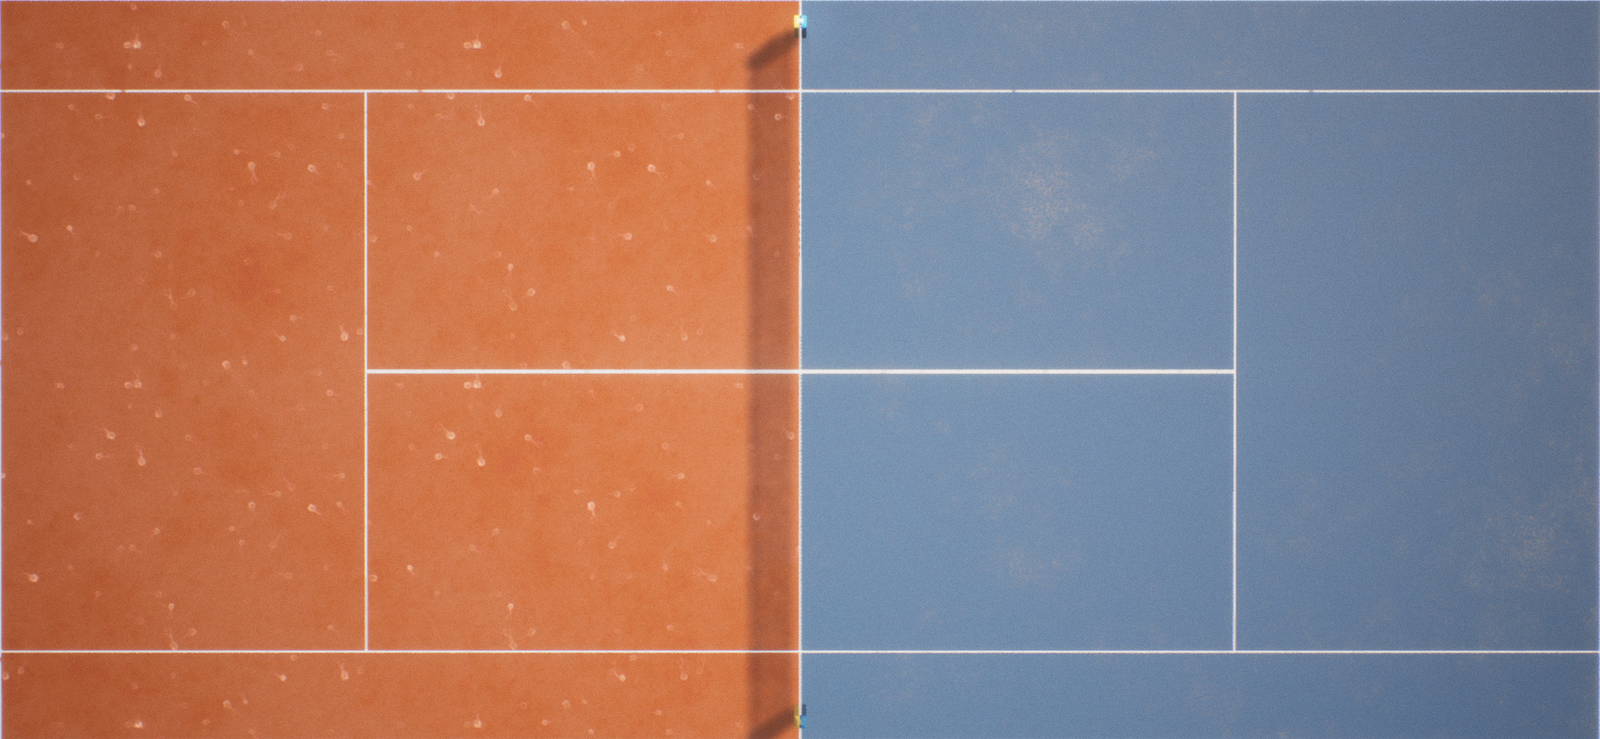
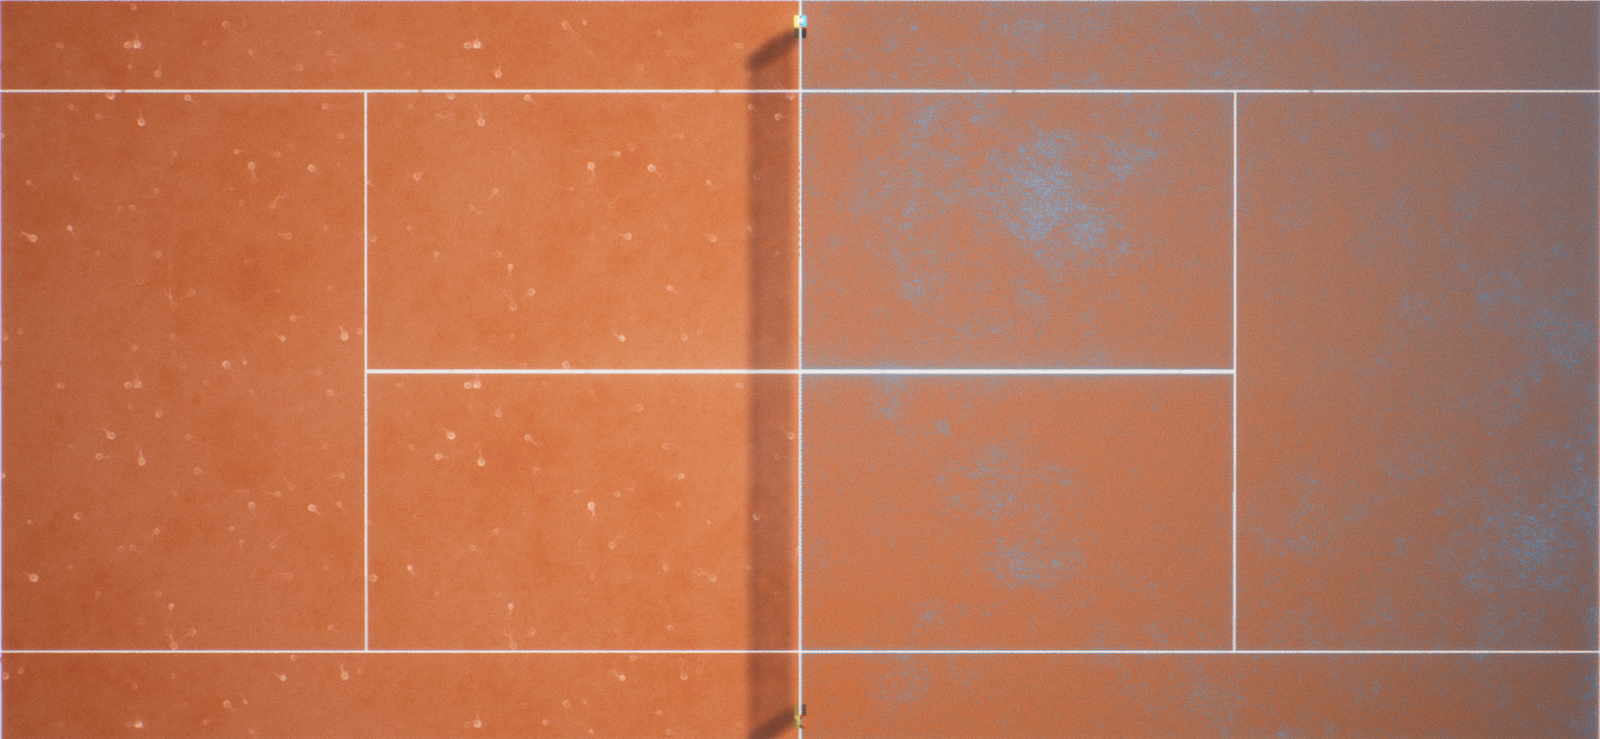
staging: cache-bust XML/mesh/ONNX asset fetches (Pages serves 10min cache)

diff --git a/index.html b/index.html
@@ -1,6 +1,6 @@
 <!doctype html><html><head><meta charset="UTF-8"><meta name="viewport" content="width=device-width,initial-scale=1"><meta name="description" content="The official Unitree H2 model with 29 actuators, driven by the actual zero-step untrained policy in real MuJoCo WebAssembly."><title>LATENT Tennis - Real MuJoCo</title><style>
 :root{color-scheme:dark;--lime:#c7ff2f;--line:#ffffff24;--panel:#07101bd9}*{box-sizing:border-box}html,body,#app{margin:0;width:100%;height:100%;overflow:hidden;background:#03070c;font-family:Inter,system-ui,sans-serif;color:#f4f7fb}canvas{display:block}.top{position:fixed;z-index:3;top:0;left:0;right:0;padding:20px 28px;display:flex;justify-content:space-between;pointer-events:none;background:linear-gradient(#03070ce6,transparent)}.brand{font-weight:900;letter-spacing:.18em;font-size:12px}.brand b{color:var(--lime)}.badge{border:1px solid #c7ff2f55;background:#07101bd9;border-radius:99px;padding:8px 12px;font-size:10px;letter-spacing:.12em;color:var(--lime)}.hud{position:fixed;z-index:3;top:78px;left:26px;display:grid;gap:8px;pointer-events:none}.row{background:var(--panel);border:1px solid var(--line);border-radius:12px;padding:10px 13px;min-width:260px;display:flex;justify-content:space-between;font-size:11px;backdrop-filter:blur(12px)}.row span{color:#8f9bad}.copy{position:fixed;z-index:3;left:28px;bottom:26px;max-width:600px;pointer-events:none}.copy .copytoggle{pointer-events:auto;margin-top:10px;border:1px solid var(--line);background:#07101bdd;color:#fff;padding:7px 12px;border-radius:999px;font:bold 9px system-ui;letter-spacing:.1em;cursor:pointer;text-transform:uppercase}.copy .copytag{display:none;font-weight:900;letter-spacing:-.02em;font-size:15px;pointer-events:auto;cursor:pointer}.copy.min{max-width:none}.copy.min h1,.copy.min p{display:none}.copy.min .copytag{display:inline-block}.copy.min .copytag:hover{color:var(--lime)}.copy h1{font-size:clamp(32px,4.5vw,58px);line-height:.88;letter-spacing:-.065em;margin:0 0 14px}.copy p{margin:0;color:#b8c1ce;line-height:1.45;font-size:13px;max-width:650px}.controls{position:fixed;z-index:4;right:25px;bottom:25px;display:flex;gap:8px}.controls button,.controls a{border:1px solid var(--line);background:#07101bdd;color:white;padding:10px 14px;border-radius:999px;text-decoration:none;text-transform:uppercase;font:bold 10px system-ui;letter-spacing:.1em;cursor:pointer}.controls button:hover,.controls a:hover{border-color:var(--lime);color:var(--lime)}.loading{position:fixed;inset:0;z-index:10;background:#03070c;display:grid;place-items:center;text-align:center}.loading b{display:block;color:var(--lime);letter-spacing:.14em;margin-bottom:10px}.loading small{color:#8090a0}.loadbar{width:min(72vw,420px);height:7px;margin:18px auto 0;background:#15202b;border-radius:99px;overflow:hidden}.loadbar i{display:block;width:2%;height:100%;background:var(--lime);border-radius:inherit;transition:width .18s ease}.error{color:#ff8d8d;max-width:600px;padding:30px}.truth{position:fixed;z-index:4;right:24px;top:75px;width:290px;background:#07101be8;border:1px solid var(--line);border-radius:14px;padding:14px;font-size:11px;line-height:1.5;color:#aeb8c6}.truth b{color:white}.truth i{color:var(--lime);font-style:normal}.copy .roadmap{margin-top:10px;font-size:11px;color:#8f9bad}.copy .roadmap b{color:var(--lime);letter-spacing:.08em}@media(max-width:700px){.truth{display:none}.hud{left:14px;top:67px}.row{min-width:215px}.row:nth-child(n+3){display:none}.copy{left:15px;bottom:82px;right:15px}.copy h1{font-size:46px}.copy p{font-size:11px}.controls{left:14px;right:auto;bottom:24px}.top{padding:17px 15px}.badge{font-size:9px}}
 </style>  <script src="./assets/ort/ort.wasm.min.js"></script>
-  <script type="module" crossorigin src="./assets/index-H2-modelgeom.js?v=h2untr1"></script>
+  <script type="module" crossorigin src="./assets/index-H2-modelgeom.js?v=h2untr2"></script>
 
 </head><body><div id="app"></div><div class="top"><div class="brand"><b>LATENT</b> / MUJOCO</div><div class="badge" id="badge">BOOTING REAL SIM</div></div><div class="hud"><div class="row"><span>PHYSICS</span><strong id="physics">MuJoCo WASM loading</strong></div><div class="row"><span>MODEL</span><strong id="model">Official H2 MJCF · 29 actuators</strong></div><div class="row"><span>GEOMETRY</span><strong id="geo">Loading official H2 meshes</strong></div><div class="row"><span>CONTROL</span><strong>UNTRAINED · 0 STEPS</strong></div></div><div class="truth"><b>What is real?</b><br><i>Real:</i> official MuJoCo engine stepped live at 500Hz, official Unitree H2 MJCF with its 29 position actuators, and a feed ball flying real aerodynamics - gravity plus drag and Magnus lift from the training environment's model. Bounce, net, racket and robot collisions are MuJoCo contacts. The racket is a real 320g rigid body welded to the right wrist - it moves with the policy and genuinely knocks balls it touches (rigid-face contact; string network pending calibration).<br><br><i>Honest limits:</i> the robot is driven at 50Hz by the actual untrained policy - a zero-step random init fed zero observations (browser smoke schema). It has no balance skill: it wobbles, falls, and restarts. That collapse is day zero, not a bug. Ball spin is held constant over flight (no decay yet). The racket face is a rigid disc, not the training stringbed - no spin-producing string physics is claimed yet.</div><div class="copy" id="copy"><span class="copytag" id="copytag">REAL MODEL. REAL PHYSICS.</span><h1>REAL MODEL.<br>REAL PHYSICS.</h1><p>Unitree's official H2 model is compiled live in Google's MuJoCo WebAssembly engine and driven by the actual training policy - today a zero-step random initialization with no balance skill. It wobbles, falls, and gets up for another episode while the machine fires real-spin balls at it. Every collapse is exactly where training starts. Drag to orbit.</p><p class="roadmap"><b>ATH - Association of Tennis Humanoids</b><br>Building toward physics-first humanoid tennis: pro footwork, spin-aware ball flight, drills, serves, and match play.</p><button class="copytoggle" id="copytoggle">Hide text</button></div><div class="controls"><button id="pause">Pause</button><button id="reset">Reset</button><a href="https://github.com/unitreerobotics/unitree_ros" target="_blank">Source</a></div><div class="loading" id="loading"><div><b>COMPILING UNITREE H2</b><small id="loadmsg">Starting optimized mobile loader…</small><div class="loadbar" role="progressbar" aria-label="Loading simulation"><i id="loadbarfill"></i></div></div></div><script>(function(){var c=document.getElementById("copy"),t=document.getElementById("copytoggle"),g=document.getElementById("copytag");function set(m){c.classList.toggle("min",m);t.textContent=m?"About":"Hide text"}t.addEventListener("click",function(){set(!c.classList.contains("min"))});g.addEventListener("click",function(){set(false)});if(window.matchMedia&&window.matchMedia("(max-width:700px)").matches)set(true)})();</script></body></html>

diff --git a/index-dev.html b/index-dev.html
@@ -1,6 +1,6 @@
 <!doctype html><html><head><meta charset="UTF-8"><meta name="viewport" content="width=device-width,initial-scale=1"><meta name="description" content="The official Unitree H2 model with 29 actuators, driven by the actual zero-step untrained policy in real MuJoCo WebAssembly."><title>LATENT Tennis - Real MuJoCo</title><style>
 :root{color-scheme:dark;--lime:#c7ff2f;--line:#ffffff24;--panel:#07101bd9}*{box-sizing:border-box}html,body,#app{margin:0;width:100%;height:100%;overflow:hidden;background:#03070c;font-family:Inter,system-ui,sans-serif;color:#f4f7fb}canvas{display:block}.top{position:fixed;z-index:3;top:0;left:0;right:0;padding:20px 28px;display:flex;justify-content:space-between;pointer-events:none;background:linear-gradient(#03070ce6,transparent)}.brand{font-weight:900;letter-spacing:.18em;font-size:12px}.brand b{color:var(--lime)}.badge{border:1px solid #c7ff2f55;background:#07101bd9;border-radius:99px;padding:8px 12px;font-size:10px;letter-spacing:.12em;color:var(--lime)}.hud{position:fixed;z-index:3;top:78px;left:26px;display:grid;gap:8px;pointer-events:none}.row{background:var(--panel);border:1px solid var(--line);border-radius:12px;padding:10px 13px;min-width:260px;display:flex;justify-content:space-between;font-size:11px;backdrop-filter:blur(12px)}.row span{color:#8f9bad}.copy{position:fixed;z-index:3;left:28px;bottom:26px;max-width:600px;pointer-events:none}.copy .copytoggle{pointer-events:auto;margin-top:10px;border:1px solid var(--line);background:#07101bdd;color:#fff;padding:7px 12px;border-radius:999px;font:bold 9px system-ui;letter-spacing:.1em;cursor:pointer;text-transform:uppercase}.copy .copytag{display:none;font-weight:900;letter-spacing:-.02em;font-size:15px;pointer-events:auto;cursor:pointer}.copy.min{max-width:none}.copy.min h1,.copy.min p{display:none}.copy.min .copytag{display:inline-block}.copy.min .copytag:hover{color:var(--lime)}.copy h1{font-size:clamp(32px,4.5vw,58px);line-height:.88;letter-spacing:-.065em;margin:0 0 14px}.copy p{margin:0;color:#b8c1ce;line-height:1.45;font-size:13px;max-width:650px}.controls{position:fixed;z-index:4;right:25px;bottom:25px;display:flex;gap:8px}.controls button,.controls a{border:1px solid var(--line);background:#07101bdd;color:white;padding:10px 14px;border-radius:999px;text-decoration:none;text-transform:uppercase;font:bold 10px system-ui;letter-spacing:.1em;cursor:pointer}.controls button:hover,.controls a:hover{border-color:var(--lime);color:var(--lime)}.loading{position:fixed;inset:0;z-index:10;background:#03070c;display:grid;place-items:center;text-align:center}.loading b{display:block;color:var(--lime);letter-spacing:.14em;margin-bottom:10px}.loading small{color:#8090a0}.loadbar{width:min(72vw,420px);height:7px;margin:18px auto 0;background:#15202b;border-radius:99px;overflow:hidden}.loadbar i{display:block;width:2%;height:100%;background:var(--lime);border-radius:inherit;transition:width .18s ease}.error{color:#ff8d8d;max-width:600px;padding:30px}.truth{position:fixed;z-index:4;right:24px;top:75px;width:290px;background:#07101be8;border:1px solid var(--line);border-radius:14px;padding:14px;font-size:11px;line-height:1.5;color:#aeb8c6}.truth b{color:white}.truth i{color:var(--lime);font-style:normal}.copy .roadmap{margin-top:10px;font-size:11px;color:#8f9bad}.copy .roadmap b{color:var(--lime);letter-spacing:.08em}@media(max-width:700px){.truth{display:none}.hud{left:14px;top:67px}.row{min-width:215px}.row:nth-child(n+3){display:none}.copy{left:15px;bottom:82px;right:15px}.copy h1{font-size:46px}.copy p{font-size:11px}.controls{left:14px;right:auto;bottom:24px}.top{padding:17px 15px}.badge{font-size:9px}}
 </style>  <script src="./assets/ort/ort.wasm.min.js"></script>
-  <script type="module" crossorigin src="./assets/index-H2-untrained.js?v=dev5"></script>
+  <script type="module" crossorigin src="./assets/index-H2-untrained.js?v=dev6"></script>
 
 </head><body><div id="app"></div><div class="top"><div class="brand"><b>LATENT</b> / MUJOCO</div><div class="badge" id="badge">BOOTING REAL SIM</div></div><div class="hud"><div class="row"><span>PHYSICS</span><strong id="physics">MuJoCo WASM loading</strong></div><div class="row"><span>MODEL</span><strong id="model">Official H2 MJCF · 29 actuators</strong></div><div class="row"><span>GEOMETRY</span><strong id="geo">Loading official H2 meshes</strong></div><div class="row"><span>CONTROL</span><strong>UNTRAINED · 0 STEPS</strong></div></div><div class="truth"><b>What is real?</b><br><i>Real:</i> official MuJoCo engine stepped live at 500Hz, official Unitree H2 MJCF with its 29 position actuators, and a feed ball flying real aerodynamics - gravity plus drag and Magnus lift from the training environment's model. Bounce, net, racket and robot collisions are MuJoCo contacts. The racket is a real 320g rigid body welded to the right wrist - it moves with the policy and genuinely knocks balls it touches (rigid-face contact; string network pending calibration).<br><br><i>Honest limits:</i> the robot is driven at 50Hz by the actual untrained policy - a zero-step random init fed zero observations (browser smoke schema). It has no balance skill: it wobbles, falls, and restarts. That collapse is day zero, not a bug. Ball spin is held constant over flight (no decay yet). The racket face is a rigid disc, not the training stringbed - no spin-producing string physics is claimed yet.</div><div class="copy" id="copy"><span class="copytag" id="copytag">REAL MODEL. REAL PHYSICS.</span><h1>REAL MODEL.<br>REAL PHYSICS.</h1><p>Unitree's official H2 model is compiled live in Google's MuJoCo WebAssembly engine and driven by the actual training policy - today a zero-step random initialization with no balance skill. It wobbles, falls, and gets up for another episode while the machine fires real-spin balls at it. Every collapse is exactly where training starts. Drag to orbit.</p><p class="roadmap"><b>ATH - Association of Tennis Humanoids</b><br>Building toward physics-first humanoid tennis: pro footwork, spin-aware ball flight, drills, serves, and match play.</p><button class="copytoggle" id="copytoggle">Hide text</button></div><div class="controls"><button id="pause">Pause</button><button id="reset">Reset</button><a href="https://github.com/unitreerobotics/unitree_ros" target="_blank">Source</a></div><div class="loading" id="loading"><div><b>COMPILING UNITREE H2</b><small id="loadmsg">Starting optimized mobile loader…</small><div class="loadbar" role="progressbar" aria-label="Loading simulation"><i id="loadbarfill"></i></div></div></div><script>(function(){var c=document.getElementById("copy"),t=document.getElementById("copytoggle"),g=document.getElementById("copytag");function set(m){c.classList.toggle("min",m);t.textContent=m?"About":"Hide text"}t.addEventListener("click",function(){set(!c.classList.contains("min"))});g.addEventListener("click",function(){set(false)});if(window.matchMedia&&window.matchMedia("(max-width:700px)").matches)set(true)})();</script></body></html>

diff --git a/assets/index-H2-modelgeom.js b/assets/index-H2-modelgeom.js
@@ -30253,7 +30253,7 @@ async function ZE() {
     );
     ((J.castShadow = !0),
       Fn.add(J),
-      KE(Da + "assets/tennis/tennis_court_red_blue.png"),
+      KE(Da + "assets/tennis/tennis_court_red_blue.png?t=" + Date.now()),
       (document.querySelector("#pause").onclick = (ie) => {
         ((M = !M), (ie.target.textContent = M ? "Resume" : "Pause"));
       }),

diff --git a/assets/index-H2-untrained.js b/assets/index-H2-untrained.js
@@ -30253,7 +30253,7 @@ async function ZE() {
     );
     ((J.castShadow = !0),
       Fn.add(J),
-      KE(Da + "assets/tennis/tennis_court_red_blue.png"),
+      KE(Da + "assets/tennis/tennis_court_red_blue.png?t=" + Date.now()),
       (document.querySelector("#pause").onclick = (ie) => {
         ((M = !M), (ie.target.textContent = M ? "Resume" : "Pause"));
       }),
